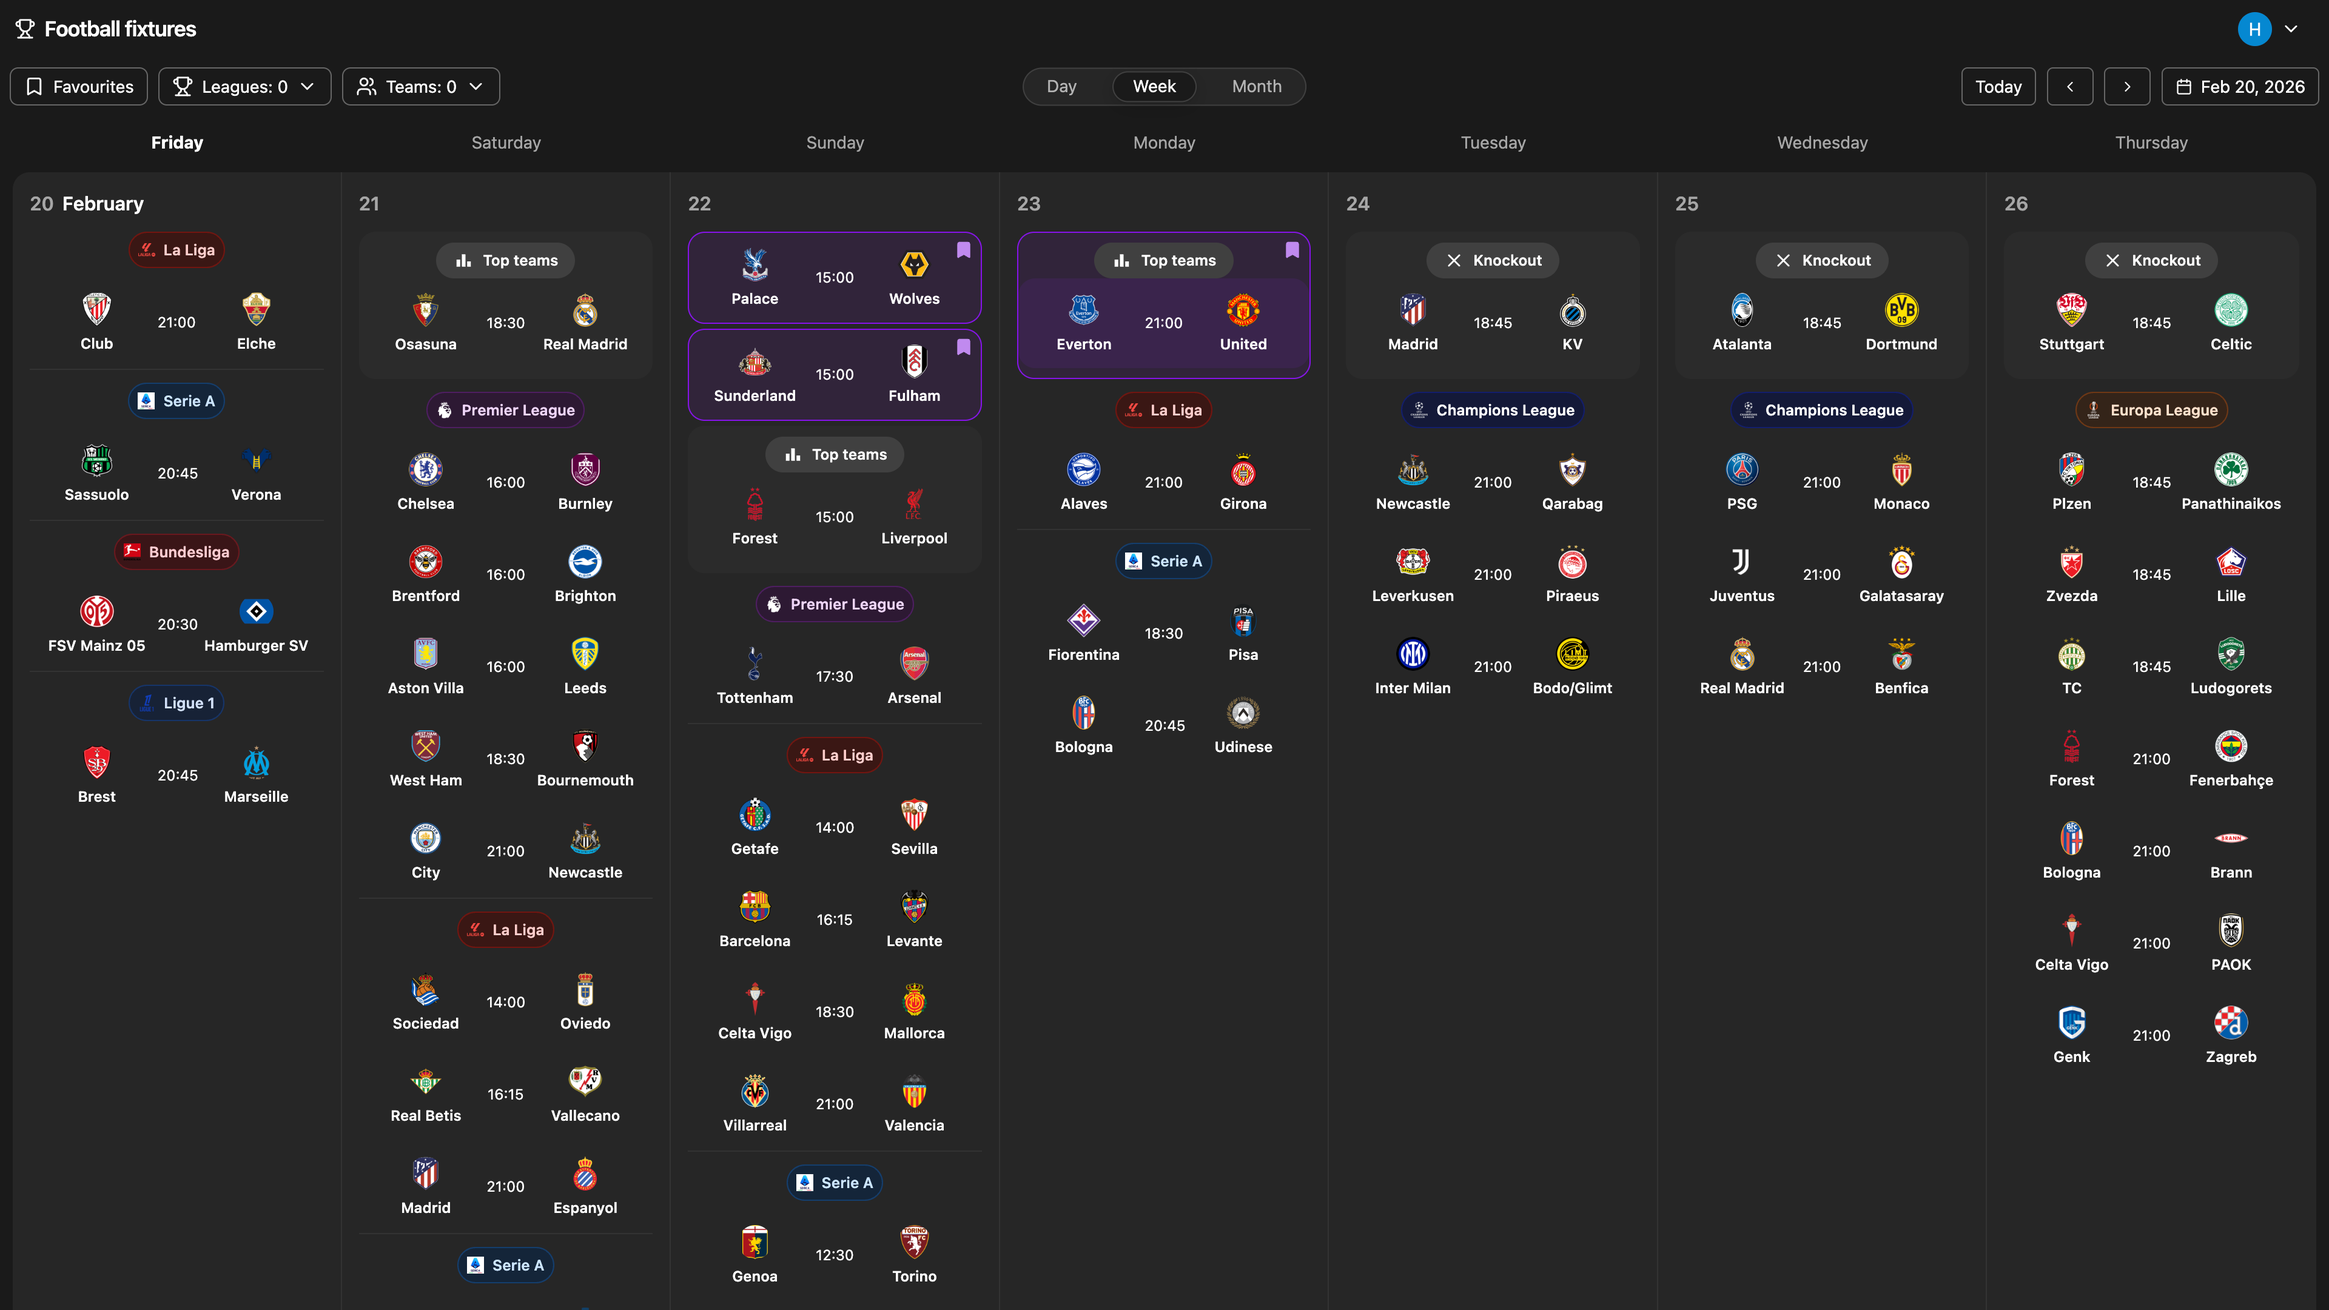
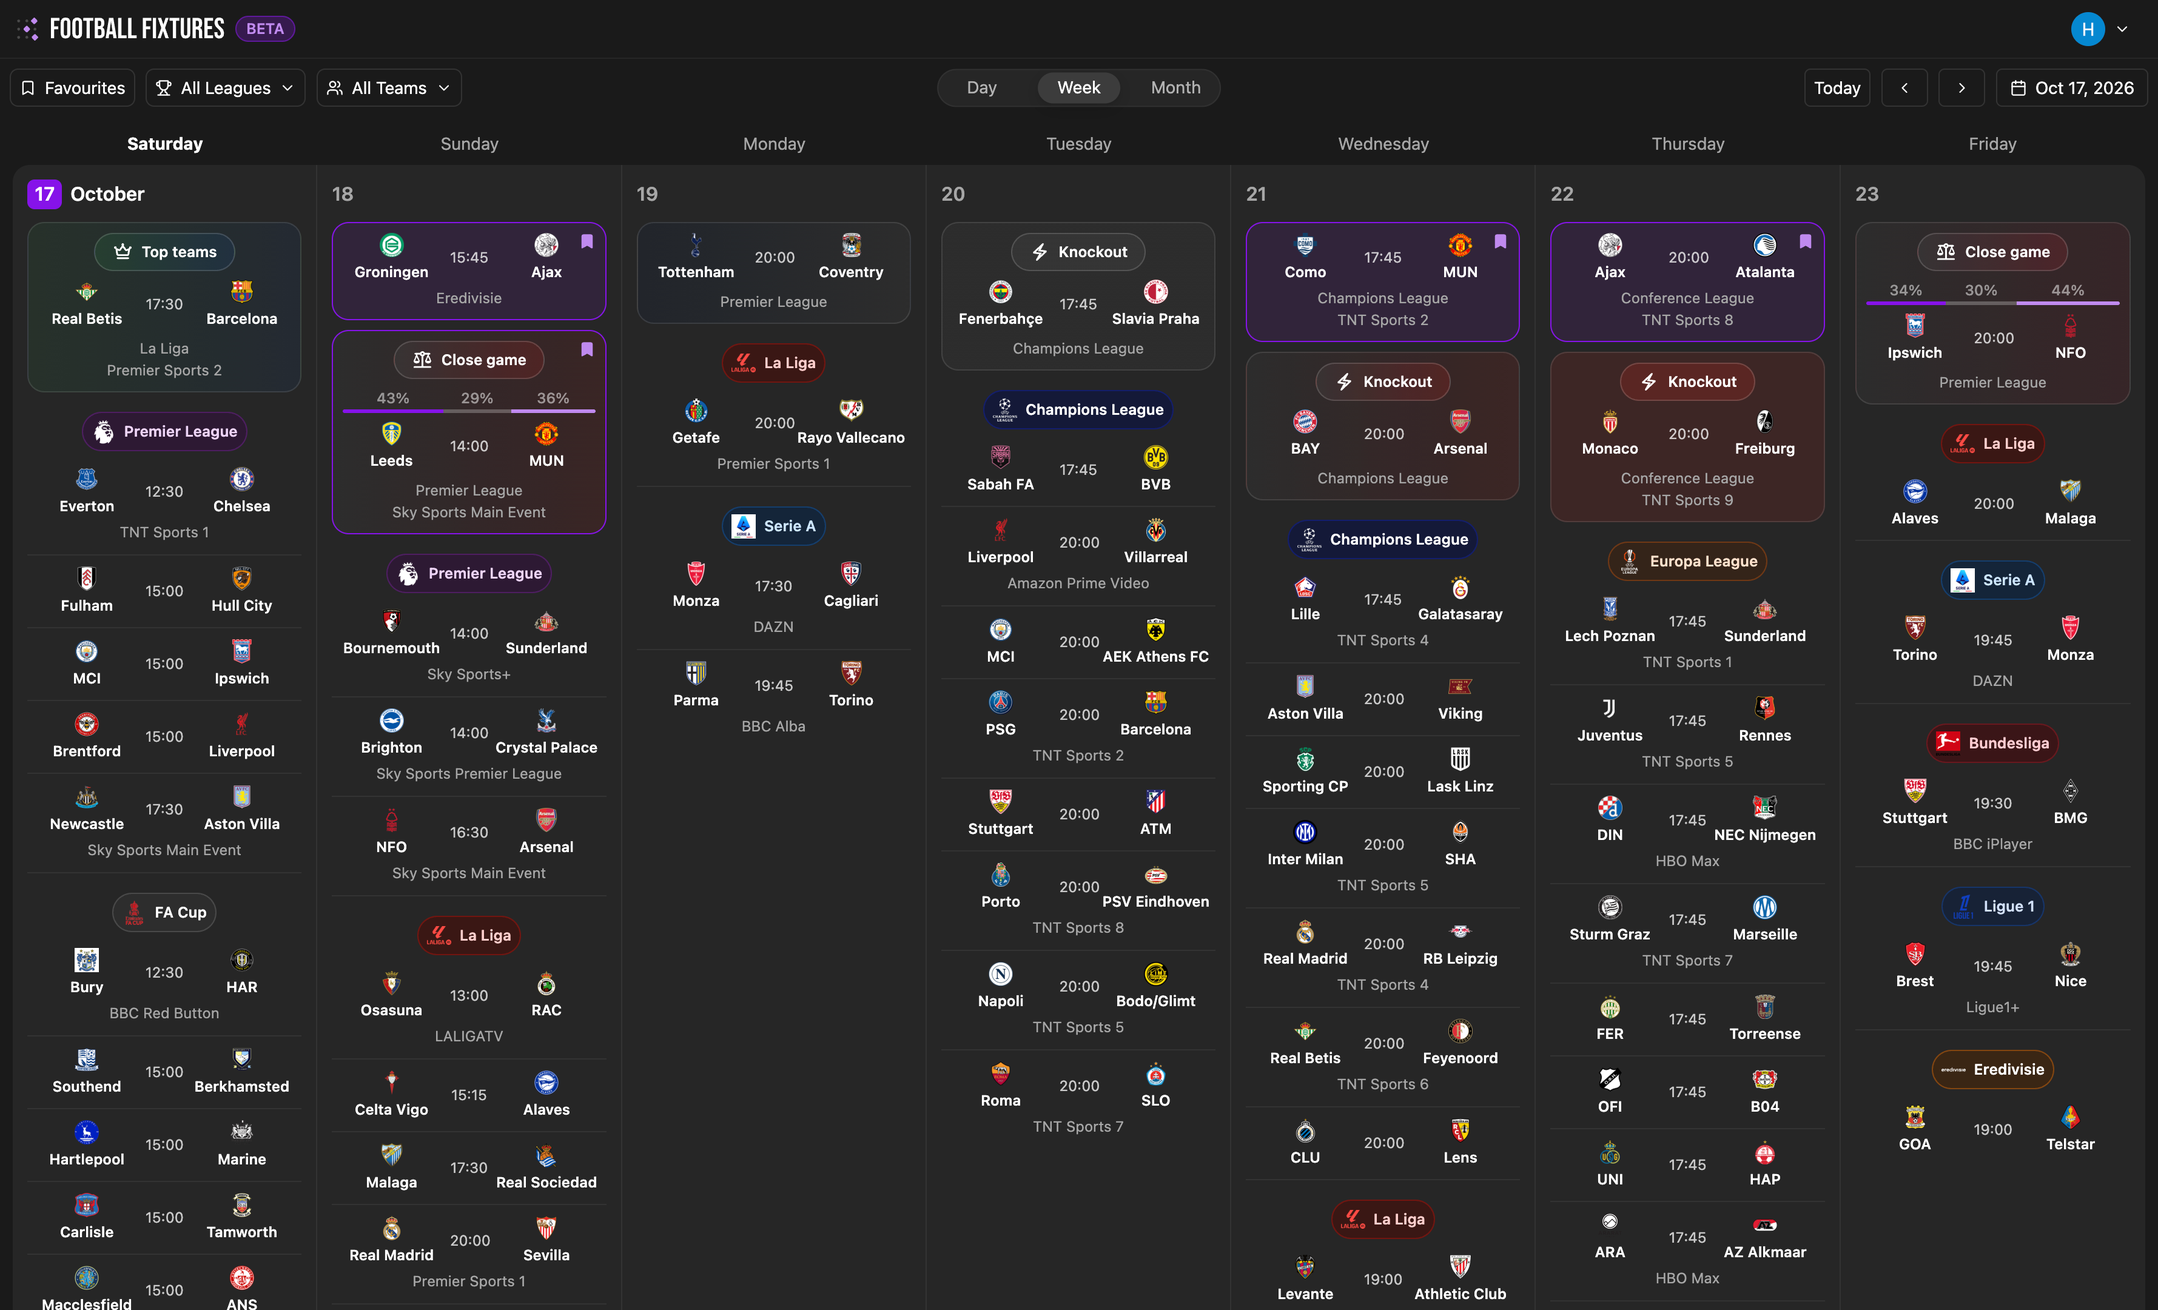
Fade project card screenshots and add grain, shadows and new background
Homepage cards now show more of each screenshot, fading out over the
bottom of the card (from the Figma design), and use a new Football
Fixtures screenshot. Card backgrounds get a fine grain, product mockups
on the homepage and case studies get a soft layered shadow, and the
page background is now #fafbfc.

diff --git a/docs/helix-patient-communications.html b/docs/helix-patient-communications.html
@@ -6,7 +6,7 @@
   <meta content="Telstra Health: Messaging Redesign — Hugo Dowd" property="og:title">
   <meta content="Telstra Health: Messaging Redesign — Hugo Dowd" property="twitter:title">
   <meta content="width=device-width, initial-scale=1" name="viewport">
-  <meta name="theme-color" content="#f8f8fc">
+  <meta name="theme-color" content="#fafbfc">
   <link href="https://fonts.googleapis.com" rel="preconnect">
   <link href="https://fonts.gstatic.com" rel="preconnect" crossorigin="anonymous">
   <link href="https://fonts.googleapis.com/css2?family=Geist:wght@400;500&display=swap" rel="stylesheet">
@@ -34,7 +34,7 @@
         <span class="cs-label">Telstra Health</span>
         <h1>How a redesign led to 90% + of practices increasing their usage of the messaging system</h1>
         <div class="cs-image cs-hero-image">
-          <img src="images/image15.png" loading="lazy" sizes="(max-width: 960px) 100vw, 960px" srcset="images/image15-p-500.png 500w, images/image15-p-800.png 800w, images/image15-p-1080.png 1080w, images/image15-p-1600.png 1600w, images/image15-p-2000.png 2000w, images/image15.png 3520w" alt="Dashboard for setting up automated messages">
+          <img class="cs-mockup" src="images/image15.png" loading="lazy" sizes="(max-width: 960px) 100vw, 960px" srcset="images/image15-p-500.png 500w, images/image15-p-800.png 800w, images/image15-p-1080.png 1080w, images/image15-p-1600.png 1600w, images/image15-p-2000.png 2000w, images/image15.png 3520w" alt="Dashboard for setting up automated messages">
           <p class="cs-image-caption">dashboard for setting up automated messages</p>
         </div>
         <div class="cs-metrics-grid">
@@ -160,15 +160,15 @@
 
         <h2>Design explorations</h2>
         <div class="cs-image">
-          <img src="images/table-layout.jpg" loading="lazy" sizes="100vw" alt="Table layout — old design">
+          <img class="cs-mockup" src="images/table-layout.jpg" loading="lazy" sizes="100vw" alt="Table layout — old design">
           <p class="cs-image-caption">table layout provided filtering and sorting capabilities but this wasn't required by users</p>
         </div>
         <div class="cs-image">
-          <img src="images/card-layout.jpg" loading="lazy" sizes="100vw" alt="Card layout — new design">
+          <img class="cs-mockup" src="images/card-layout.jpg" loading="lazy" sizes="100vw" alt="Card layout — new design">
           <p class="cs-image-caption">the card layout was optimal for scanning the 5-15 messages practices wanted to set</p>
         </div>
         <div class="cs-image">
-          <img src="images/adding-in-appointment-reminder.jpg" loading="lazy" sizes="100vw" alt="Adding in an appointment reminder">
+          <img class="cs-mockup" src="images/adding-in-appointment-reminder.jpg" loading="lazy" sizes="100vw" alt="Adding in an appointment reminder">
           <p class="cs-image-caption">the initial modal contained more fields but how they related confused users</p>
         </div>
 
@@ -190,7 +190,7 @@
             <p>I also added the enabled checkbox after user feedback indicating they'd like the ability to turn on/off the message without recreating it.</p>
           </div>
           <div class="cs-image">
-            <img src="images/new-appointment-reminder2.png" loading="lazy" sizes="(max-width: 768px) 100vw, 50vw" srcset="images/new-appointment-reminder2-p-500.png 500w, images/new-appointment-reminder2-p-800.png 800w, images/new-appointment-reminder2-p-1080.png 1080w, images/new-appointment-reminder2.png 1716w" alt="Modal for creating automated messages">
+            <img class="cs-mockup" src="images/new-appointment-reminder2.png" loading="lazy" sizes="(max-width: 768px) 100vw, 50vw" srcset="images/new-appointment-reminder2-p-500.png 500w, images/new-appointment-reminder2-p-800.png 800w, images/new-appointment-reminder2-p-1080.png 1080w, images/new-appointment-reminder2.png 1716w" alt="Modal for creating automated messages">
             <p class="cs-image-caption">modal for creating automated messages</p>
           </div>
         </div>
@@ -202,7 +202,7 @@
             <p>For 'No Patient Reply' practices wanted the ability to trigger a follow up message to a patient if they hadn't replied to the initial message.</p>
           </div>
           <div class="cs-image">
-            <img src="images/no-patient-reply.png" loading="lazy" sizes="(max-width: 768px) 100vw, 50vw" srcset="images/no-patient-reply-p-500.png 500w, images/no-patient-reply-p-1080.png 1080w, images/no-patient-reply.png 1716w" alt="Modal for no patient reply">
+            <img class="cs-mockup" src="images/no-patient-reply.png" loading="lazy" sizes="(max-width: 768px) 100vw, 50vw" srcset="images/no-patient-reply-p-500.png 500w, images/no-patient-reply-p-1080.png 1080w, images/no-patient-reply.png 1716w" alt="Modal for no patient reply">
             <p class="cs-image-caption">modal for 'no patient reply'</p>
           </div>
         </div>

diff --git a/docs/football-fixtures.html b/docs/football-fixtures.html
@@ -6,7 +6,7 @@
   <meta content="Prototyping with AI tools to help football fans find upcoming games — Hugo Dowd" property="og:title">
   <meta content="Prototyping with AI tools to help football fans find upcoming games — Hugo Dowd" property="twitter:title">
   <meta content="width=device-width, initial-scale=1" name="viewport">
-  <meta name="theme-color" content="#f8f8fc">
+  <meta name="theme-color" content="#fafbfc">
   <link href="https://fonts.googleapis.com" rel="preconnect">
   <link href="https://fonts.gstatic.com" rel="preconnect" crossorigin="anonymous">
   <link href="https://fonts.googleapis.com/css2?family=Geist:wght@400;500&display=swap" rel="stylesheet">
@@ -42,7 +42,7 @@
           </a>
         </div>
         <div class="cs-image cs-hero-image">
-          <img src="images/football-fixtures.png" loading="eager" sizes="100vw" alt="Main page for Football Fixtures">
+          <img class="cs-mockup" src="images/football-fixtures.png" loading="eager" sizes="100vw" alt="Main page for Football Fixtures">
           <p class="cs-image-caption">main view for football fixtures</p>
         </div>
         <div class="cs-tech-stack">
@@ -98,19 +98,19 @@
         <p>This makes it easy to miss important upcoming games when they aren't surfaced.</p>
         <div class="cs-image-grid">
           <div class="cs-image">
-            <img src="images/football-fixtures-bbc.png" loading="lazy" alt="BBC Football fixtures">
+            <img class="cs-mockup" src="images/football-fixtures-bbc.png" loading="lazy" alt="BBC Football fixtures">
             <p class="cs-image-caption">BBC football fixtures</p>
           </div>
           <div class="cs-image">
-            <img src="images/football-fixtures-sky.png" loading="lazy" alt="Sky Sports fixtures">
+            <img class="cs-mockup" src="images/football-fixtures-sky.png" loading="lazy" alt="Sky Sports fixtures">
             <p class="cs-image-caption">sky sports</p>
           </div>
           <div class="cs-image">
-            <img src="images/football-fixtures-sportinglife.png" loading="lazy" alt="Sporting Life fixtures">
+            <img class="cs-mockup" src="images/football-fixtures-sportinglife.png" loading="lazy" alt="Sporting Life fixtures">
             <p class="cs-image-caption">sporting life</p>
           </div>
           <div class="cs-image">
-            <img src="images/football-fixtures-goal.png" loading="lazy" alt="Goal fixtures">
+            <img class="cs-mockup" src="images/football-fixtures-goal.png" loading="lazy" alt="Goal fixtures">
             <p class="cs-image-caption">goal</p>
           </div>
         </div>
@@ -123,7 +123,7 @@
         <span class="cs-section-label">design</span>
         <h2>Showing games in the week view allows fans to better plan in advance</h2>
         <div class="cs-image">
-          <img src="images/football-fixtures-week.png" loading="lazy" sizes="100vw" alt="Week view for Football Fixtures">
+          <img class="cs-mockup" src="images/football-fixtures-week.png" loading="lazy" sizes="100vw" alt="Week view for Football Fixtures">
           <p class="cs-image-caption">week view</p>
         </div>
 
@@ -133,7 +133,7 @@
         <div class="cs-image-grid">
           <div class="cs-image">
             <div class="cs-video-card">
-              <video autoplay loop muted playsinline>
+              <video class="cs-mockup" autoplay loop muted playsinline>
                 <source src="images/selecting-favourite-teams.mp4" type="video/mp4">
               </video>
             </div>
@@ -141,7 +141,7 @@
           </div>
           <div class="cs-image">
             <div class="cs-video-card">
-              <video autoplay loop muted playsinline>
+              <video class="cs-mockup" autoplay loop muted playsinline>
                 <source src="images/favouriting-a-game.mp4" type="video/mp4">
               </video>
             </div>
@@ -154,7 +154,7 @@
         <p>I scored the games on if they were a rivalry, a knockout, top teams or if the odds were close.</p>
         <p>The top ranking game from each day would be shown at the top as a 'featured game.'</p>
         <div class="cs-image">
-          <img src="images/football-fixtures-featured.png" loading="lazy" sizes="100vw" alt="Featured games view">
+          <img class="cs-mockup" src="images/football-fixtures-featured.png" loading="lazy" sizes="100vw" alt="Featured games view">
           <p class="cs-image-caption">featured games</p>
         </div>
       </div>

diff --git a/docs/css/site.css b/docs/css/site.css
@@ -3,7 +3,7 @@
    ============================================ */
 
 :root {
-  --bg: #f8f8fc;
+  --bg: #fafbfc;
   --surface: #ffffff;
   --text-primary: rgba(0, 0, 0, 0.9);
   --text-secondary: rgba(0, 0, 0, 0.55);
@@ -11,7 +11,18 @@
   --border: rgba(0, 0, 0, 0.15);
   --border-subtle: rgba(0, 0, 0, 0.08);
   --hover: rgba(0, 0, 0, 0.05);
-  --card-shade: #1e1e1e;
+
+  /* Layered shadow behind product mockups; the filter version follows rounded or faded edges */
+  --shadow-mockup:
+    0 1px 2px rgba(0, 0, 0, 0.04),
+    0 2px 6px rgba(0, 0, 0, 0.04),
+    0 6px 16px rgba(0, 0, 0, 0.04),
+    0 12px 32px rgba(0, 0, 0, 0.04);
+  --shadow-mockup-filter:
+    drop-shadow(0 1px 2px rgba(0, 0, 0, 0.04))
+    drop-shadow(0 2px 6px rgba(0, 0, 0, 0.04))
+    drop-shadow(0 6px 16px rgba(0, 0, 0, 0.04))
+    drop-shadow(0 12px 32px rgba(0, 0, 0, 0.04));
 
   --font: "Geist", -apple-system, BlinkMacSystemFont, "Helvetica Neue", Arial, sans-serif;
 
@@ -288,10 +299,23 @@ button:focus-visible {
   isolation: isolate;
 }
 
+/* Filled with the page colour so the grain below has an opaque colour to blend into */
 .project-card-bg {
   position: absolute;
   inset: 0;
   border-radius: var(--radius);
+  background-color: var(--bg);
+}
+
+/* Fine grain over the colour, under the screenshot */
+.project-card-bg::after {
+  content: "";
+  position: absolute;
+  inset: 0;
+  background: url("../images/noise.svg") 0 0 / 240px 240px;
+  mix-blend-mode: overlay;
+  opacity: 0.3;
+  pointer-events: none;
 }
 
 /* CSS stand-in shown when WebGPU is unavailable; the shader canvas covers it otherwise */
@@ -323,36 +347,49 @@ button:focus-visible {
   pointer-events: none;
 }
 
+/* Casts the mockup shadow from the masked screenshot, so it follows the fade. On the
+   screenshot itself the mask would clip the shadow away */
+.project-card-shot-wrap {
+  position: absolute;
+  inset: 0;
+  filter: var(--shadow-mockup-filter);
+  pointer-events: none;
+}
+
+/* The screenshot fades out over the bottom quarter of its mask, which starts 1px
+   below the image's top edge and spans its full width, so the right side stays visible
+   when the hover nudges it left. A CSS gradient rather than an SVG file, which browsers
+   block (hiding the screenshot) when the page is opened from disk */
 .project-card-shot {
   position: absolute;
   max-width: none;
   object-fit: cover;
-  pointer-events: none;
+  border-radius: var(--radius);
+  -webkit-mask-image: linear-gradient(to top, transparent, #000 25%);
+  mask-image: linear-gradient(to top, transparent, #000 25%);
+  -webkit-mask-repeat: no-repeat;
+  mask-repeat: no-repeat;
+  -webkit-mask-position: 0 0.184cqw;
+  mask-position: 0 0.184cqw;
   transition: transform 0.6s var(--ease-out);
 }
 
 .project-card-shot--telstra {
-  left: 14.706cqw;
-  top: 14.706cqw;
-  width: 156.25cqw;
-  height: 87.868cqw;
+  left: 6.618cqw;
+  top: 6.434cqw;
+  width: 118.342cqw;
+  height: 66.567cqw;
+  -webkit-mask-size: 100% 58.824cqw;
+  mask-size: 100% 58.824cqw;
 }
 
 .project-card-shot--football {
-  left: 14.706cqw;
-  top: 14.706cqw;
-  width: 126.838cqw;
-  height: 71.324cqw;
-}
-
-.project-card-shade {
-  position: absolute;
-  left: 0;
-  right: 0;
-  top: 60.478cqw;
-  height: 50.919cqw;
-  background: linear-gradient(to bottom, rgba(30, 30, 30, 0), var(--card-shade));
-  pointer-events: none;
+  left: 7.169cqw;
+  top: 7.169cqw;
+  width: 107.493cqw;
+  height: 65.257cqw;
+  -webkit-mask-size: 100% 58.088cqw;
+  mask-size: 100% 58.088cqw;
 }
 
 .project-card-text {

diff --git a/docs/index.html b/docs/index.html
@@ -5,7 +5,7 @@
   <title>Hugo Dowd — Product Designer</title>
   <meta name="description" content="Hugo Dowd is a London based Product Designer, working at the intersection of psychology, craft and design.">
   <meta content="width=device-width, initial-scale=1" name="viewport">
-  <meta name="theme-color" content="#f8f8fc">
+  <meta name="theme-color" content="#fafbfc">
   <link href="https://fonts.googleapis.com" rel="preconnect">
   <link href="https://fonts.gstatic.com" rel="preconnect" crossorigin="anonymous">
   <link href="https://fonts.googleapis.com/css2?family=Geist:wght@400;500&display=swap" rel="stylesheet">
@@ -48,8 +48,9 @@
           <div class="project-card-bg project-card-bg--water">
             <canvas class="project-card-shader" data-shader="water"></canvas>
           </div>
-          <img src="images/card-telstra-messaging.png" alt="Telstra Health patient messaging settings screen" class="project-card-shot project-card-shot--telstra">
-          <div class="project-card-shade"></div>
+          <div class="project-card-shot-wrap">
+            <img src="images/card-telstra-messaging.png" alt="Telstra Health patient messaging settings screen" class="project-card-shot project-card-shot--telstra">
+          </div>
         </div>
         <div class="project-card-text">
           <h2 class="project-card-title">Telstra Health: Messaging Redesign</h2>
@@ -62,7 +63,9 @@
           <div class="project-card-bg project-card-bg--mesh">
             <canvas class="project-card-shader" data-shader="mesh"></canvas>
           </div>
-          <img src="images/card-football-fixtures.png" alt="Football Fixtures week view calendar" class="project-card-shot project-card-shot--football">
+          <div class="project-card-shot-wrap">
+            <img src="images/card-football-fixtures.png" alt="Football Fixtures week view calendar" class="project-card-shot project-card-shot--football">
+          </div>
         </div>
         <div class="project-card-text">
           <h2 class="project-card-title">Football Fixtures: Games Calendar</h2>

diff --git a/docs/css/case-study.css b/docs/css/case-study.css
@@ -72,7 +72,7 @@
   align-items: stretch;
   padding: 8px;
   border-radius: 8px;
-  background-color: rgba(248, 248, 252, 0.8);
+  background-color: rgba(250, 251, 252, 0.8);
   -webkit-backdrop-filter: blur(20px);
   backdrop-filter: blur(20px);
 }
@@ -233,6 +233,16 @@
   width: 100%;
   height: auto;
   border-radius: var(--radius);
+}
+
+/* Product screens get the homepage mockup shadow. Images use the filter version so it
+   follows rounded or faded edges; the videos are plain rectangles */
+img.cs-mockup {
+  filter: var(--shadow-mockup-filter);
+}
+
+video.cs-mockup {
+  box-shadow: var(--shadow-mockup);
 }
 
 .cs-image-caption,
@@ -464,7 +474,7 @@
     left: 12px;
     padding: 8px 16px 8px 12px;
     border-radius: 100px;
-    background: rgba(248, 248, 252, 0.8);
+    background: rgba(250, 251, 252, 0.8);
     -webkit-backdrop-filter: blur(20px);
     backdrop-filter: blur(20px);
   }
